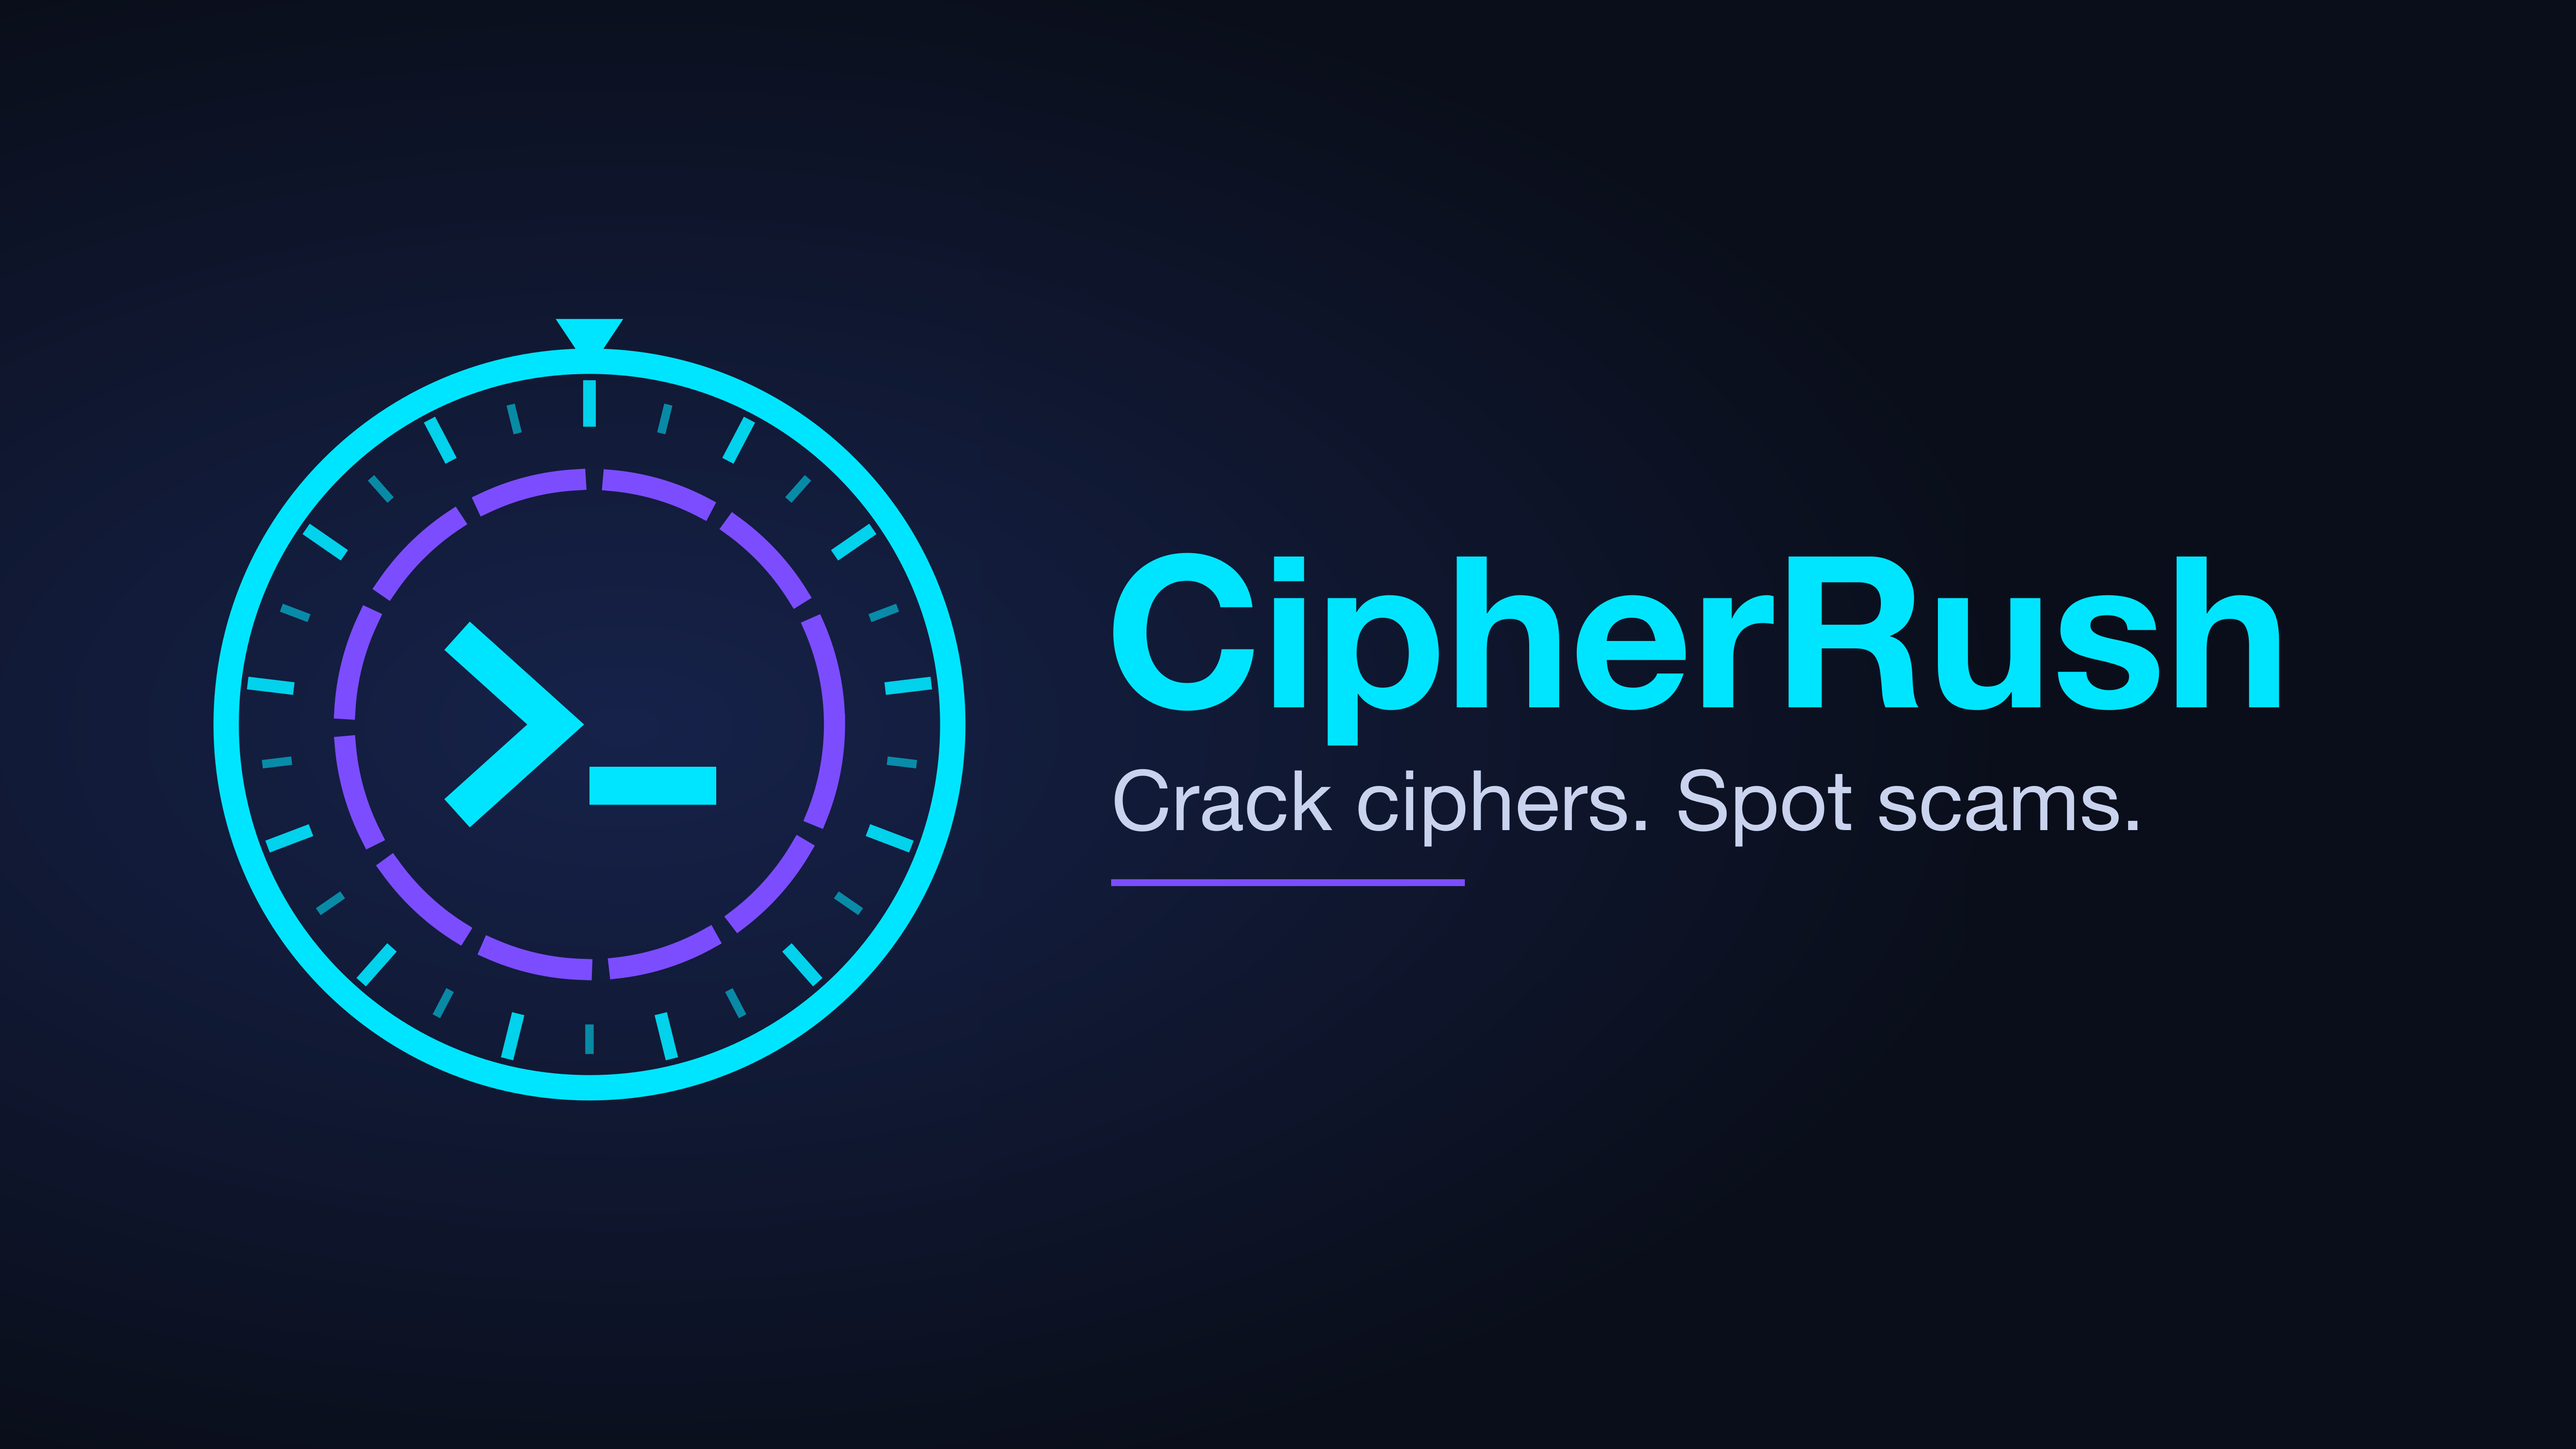
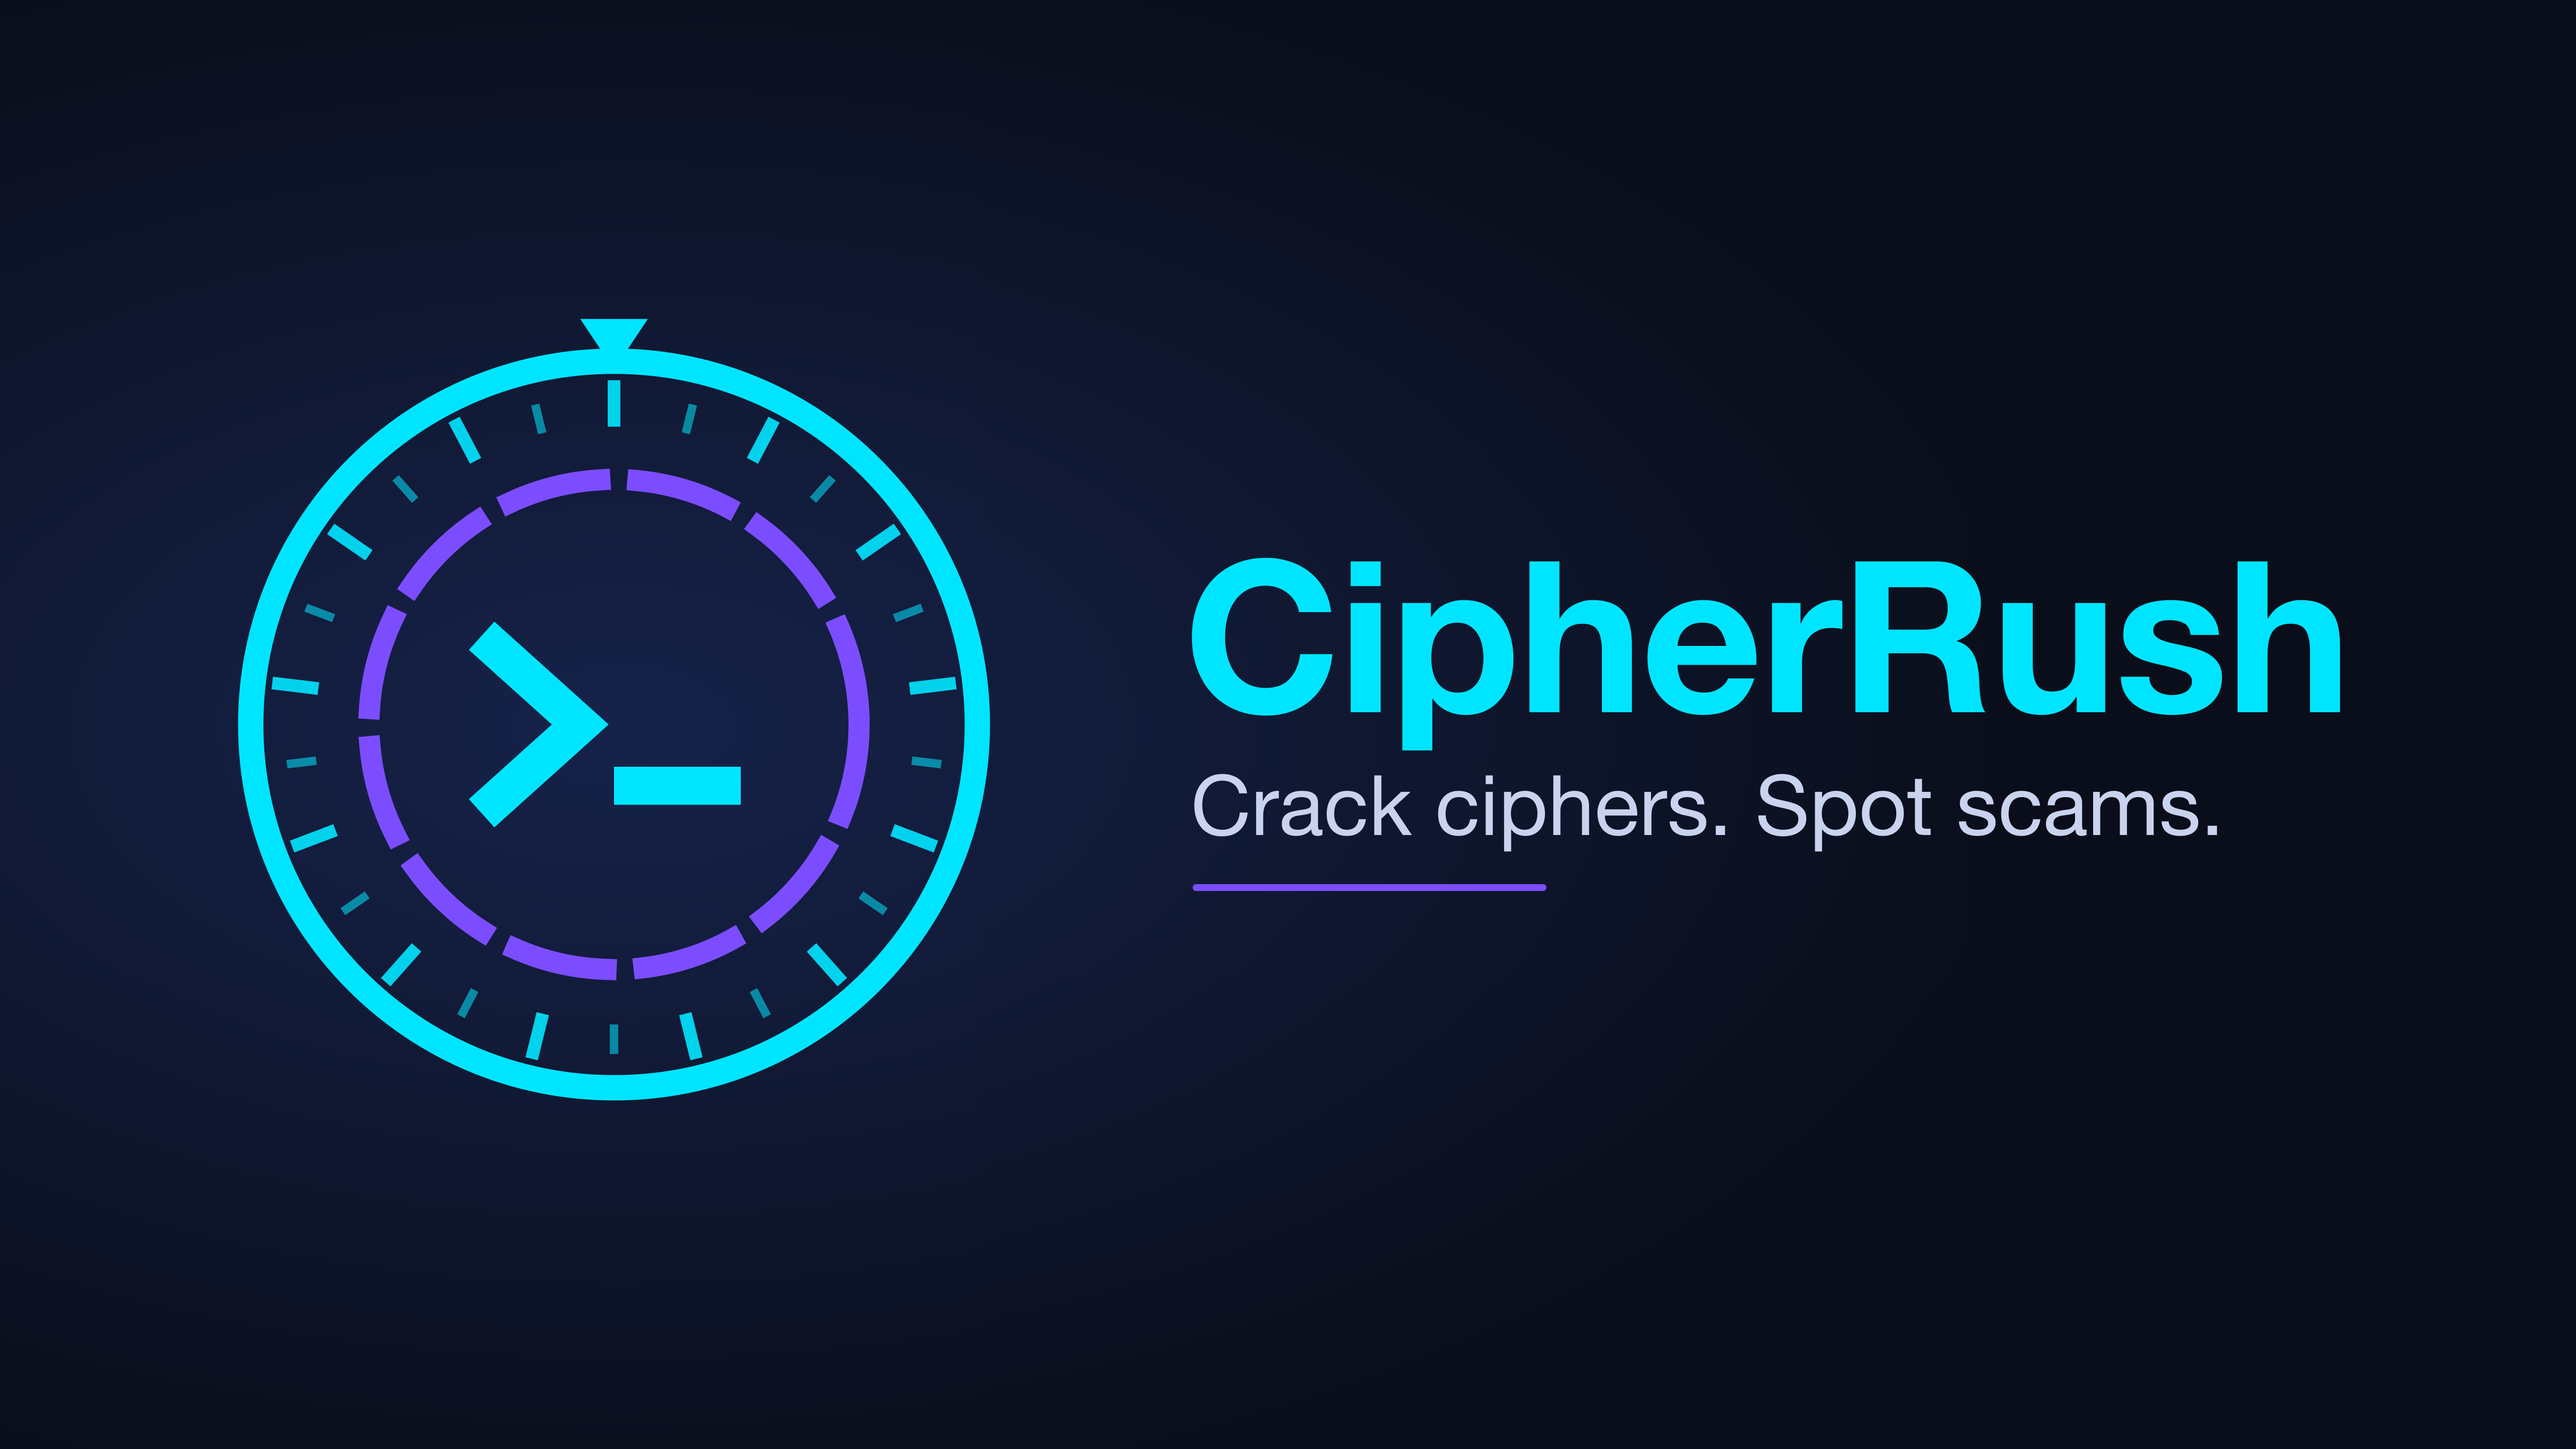
App Store: framed iPhone screenshots, re-centred header
Five 1290x2796 iPhone screenshots: real app captures on an iPhone body with
a Dynamic Island and a short caption (ios-store-assets.mjs `framed`). The
header's mark and wordmark are centred as one group. Raw captures are kept
in store/assets/raw so the set can be regenerated. app-store.md gives the
upload order; the first three are what App Store search results show.

Changed region(s): [[0.0622, 0.2183, 0.4041, 0.7797], [0.4352, 0.3742, 0.9325, 0.6237]]

diff --git a/PROJECT_STATE.md b/PROJECT_STATE.md
@@ -225,7 +225,7 @@ The VORA evaluation scored the original build **4.7 / 10**. Every score was calc
   - Rewards are granted only by AdMob's signed server-side verification callback (`/api/ads/ssv`, verified in AdMob for all four rewarded units). Every request is non-personalised; UMP consent runs in the EEA/UK/CH.
   - Test builds never request live ads; `npm run sync:release` does. Setup: `mobile/store/ads-setup.md`.
 - **Android:** CipherMark launcher icon and splash replace Capacitor's placeholders (`mobile/scripts/android-assets.sh`). Google sign-in from Play installs needed an OAuth client for Play's app signing key (SHA-1 `B5:1C:…:B7:31`), added in Google Cloud. Advertising ID declared in Play Console. Changelog: `mobile/CHANGELOG.md`.
-- **iOS:** App Store Connect record created; 1.0.0 (1) and (2) uploaded, (2) with the privacy manifest that matches the App Privacy label (`PrivacyInfo.xcprivacy`). Listing, privacy label and TestFlight steps: `mobile/store/app-store.md`. Store images in `mobile/store/assets/`: header 5244×2950, iPhone 1290×2796 (Cipher), iPad 13" 2048×2732 (Match-3 practice), iPad 11" 1640×2360 (dashboard). All are real simulator captures with no alpha (`mobile/scripts/ios-store-assets.mjs fit`).
+- **iOS:** App Store Connect record created; 1.0.0 (1) and (2) uploaded, (2) with the privacy manifest that matches the App Privacy label (`PrivacyInfo.xcprivacy`). Listing, privacy label and TestFlight steps: `mobile/store/app-store.md`. Store images in `mobile/store/assets/`: header 5244×2950; five iPhone 1290×2796 screenshots framed in an iPhone body with a Dynamic Island and a caption (Cipher, Match-3, True/False, offline practice, welcome); iPad 13" 2048×2732 (Match-3 practice); iPad 11" 1640×2360 (dashboard). All are real captures of the app (simulator or the web build at the iPhone viewport, raw files in `assets/raw/`), 24-bit with no alpha (`mobile/scripts/ios-store-assets.mjs framed|fit`). Upload order and the search-results note are in `app-store.md`.
 - **Still open:**
   - Google OAuth consent screen is in Testing (only listed test users can use Google sign-in); publish it.
   - `app-ads.txt` on aximoix.com.

diff --git a/mobile/store/app-store.md b/mobile/store/app-store.md
@@ -57,6 +57,35 @@ cipher,cryptography,cybersecurity,code breaker,decode,caesar,binary,hex,phishing
 **Description:** the full description from `google-play.md` → Store listing,
 as is.
 
+## Screenshots (`mobile/store/assets/`)
+
+Every image is a real capture of the app (guideline 2.3.3), saved as a
+24-bit PNG with no alpha. Raw captures are in `assets/raw/`; regenerate with
+`node mobile/scripts/ios-store-assets.mjs framed …` (see the script header).
+
+**iPhone 6.9" slot (1290×2796)**, upload in this order:
+
+1. `ios-iphone-1-cipher.png`: "Beat the clock" (a scored Cipher round, simulator)
+2. `ios-iphone-2-match3.png`: "Match-3, security style"
+3. `ios-iphone-3-truefalse.png`: "Spot the myths"
+4. `ios-iphone-4-practice.png`: "Practise offline"
+5. `ios-iphone-5-welcome.png`: "Real skills, fast"
+
+1290×2796 is one of the sizes the 6.9" slot accepts (alongside 1260×2736
+and 1320×2868), and App Store Connect scales it down for smaller iPhones.
+If an upload is refused, check you dropped it in the iPhone slot, not iPad.
+
+**Search results:** there's no separate search-results asset. A search
+result shows the icon, name, subtitle and the **first three screenshots**
+(or an app preview video). That's why the order above puts Cipher, Match-3
+and True/False first.
+
+**iPad 13" (2048×2732):** `ios-ipad13-2048x2732.png` (Match-3 practice,
+simulator). **iPad 11" (1640×2360)**, optional: `ios-ipad11-1640x2360.png`
+(the dashboard).
+
+**App Store header (5244×2950):** `ios-header-5244x2950.png`.
+
 ## Age rating
 
 Answer **None** to every content question. "Unrestricted web access": No.
